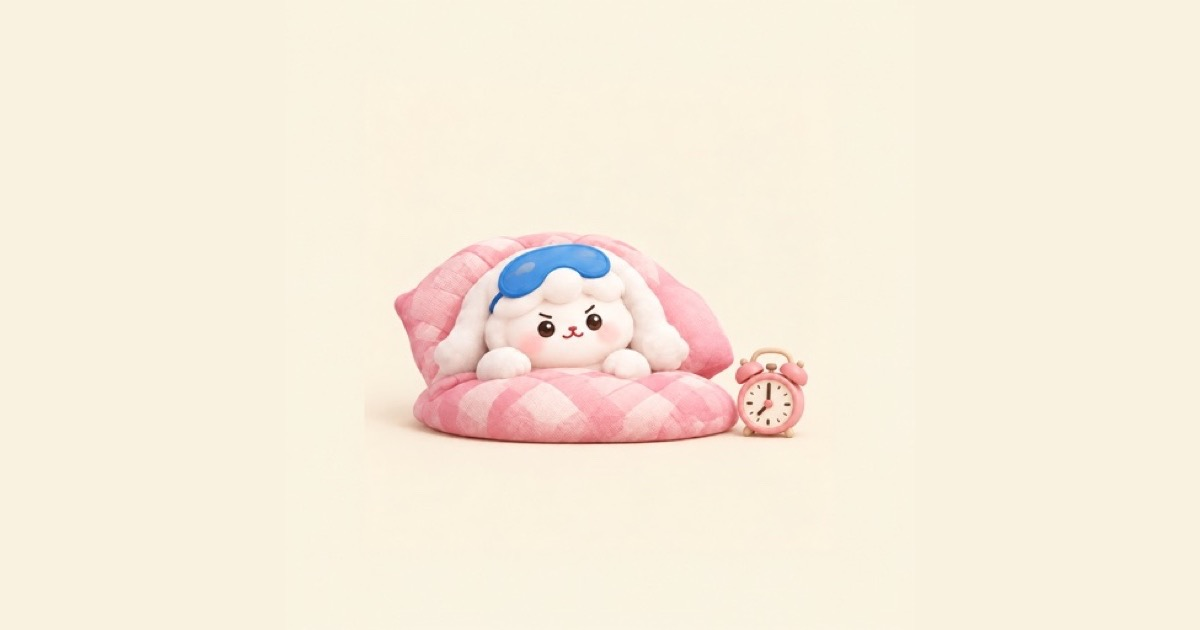
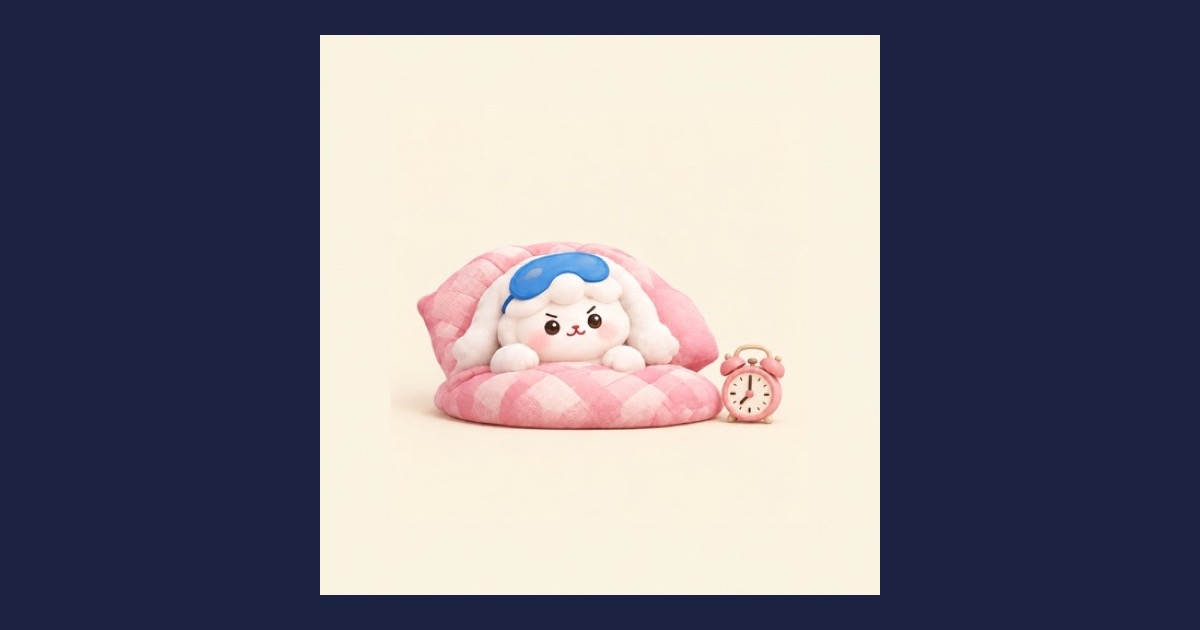
feat(chuseok): 응모 식별을 이메일 → 휴대폰 번호로 변경, Slack 배너 네이비 배경
- normalizePhone/formatPhone/maskPhone, enter API employeePhone, 폼 자동 하이픈
- 관리자 목록·CSV·추첨 결과에 연락처 표시
- supabase/chuseok_phone_migration.sql (기존 DB 전환), 신규 스키마도 번호 기준
- OG 배너 1200x630 네이비 배경 + 캐릭터 타일

diff --git a/src/components/chuseok/EntryForm.tsx b/src/components/chuseok/EntryForm.tsx
@@ -21,6 +21,14 @@ interface EnterResponse {
 
 type Status = 'idle' | 'busy' | 'done' | 'duplicate';
 
+/** 입력 중 자동 하이픈: 숫자만 남기고 010-1234-5678 형태로 */
+function formatPhoneInput(raw: string): string {
+  const d = raw.replace(/\D/g, '').slice(0, 11);
+  if (d.length <= 3) return d;
+  if (d.length <= 7) return `${d.slice(0, 3)}-${d.slice(3)}`;
+  return `${d.slice(0, 3)}-${d.slice(3, 7)}-${d.slice(7)}`;
+}
+
 function StateCard({
   tone,
   icon,
@@ -62,7 +70,7 @@ export default function EntryForm({
   drawClosesAtLabel,
 }: Props) {
   const [name, setName] = useState('');
-  const [email, setEmail] = useState('');
+  const [phone, setPhone] = useState('');
   const [agree, setAgree] = useState(false);
   const [status, setStatus] = useState<Status>(alreadyEntered ? 'done' : 'idle');
   const [error, setError] = useState('');
@@ -113,9 +121,9 @@ export default function EntryForm({
     e.preventDefault();
     setError('');
     const n = name.trim();
-    const m = email.trim();
+    const digits = phone.replace(/\D/g, '');
     if (!n) return setError('이름을 입력해 주세요.');
-    if (!/^[^\s@]+@[^\s@]+\.[^\s@]{2,}$/.test(m)) return setError('이메일 형식을 확인해 주세요.');
+    if (!/^01[016789]\d{7,8}$/.test(digits)) return setError('휴대폰 번호를 확인해 주세요. (예: 010-1234-5678)');
     if (!agree) return setError('안내 사항에 동의해 주세요.');
 
     setStatus('busy');
@@ -123,7 +131,7 @@ export default function EntryForm({
       const res = await fetch('/api/chuseok/enter', {
         method: 'POST',
         headers: { 'content-type': 'application/json' },
-        body: JSON.stringify({ sessionId, employeeName: n, employeeEmail: m }),
+        body: JSON.stringify({ sessionId, employeeName: n, employeePhone: digits }),
       });
       const data = (await res.json().catch(() => ({}))) as EnterResponse;
       if (res.ok && data.success) {
@@ -147,7 +155,7 @@ export default function EntryForm({
         <p className="ch-draw-cap">Lucky Draw</p>
         <h2 className="ch-draw-title">복주머니에 이름 넣기</h2>
         <p className="ch-draw-text">
-          이름과 이메일만 남기면 응모 완료. 한 사람당 한 번이에요.
+          이름과 휴대폰 번호만 남기면 응모 완료. 한 사람당 한 번이에요.
           {drawClosesAtLabel ? ` ${drawClosesAtLabel} 마감.` : ''}
         </p>
       </div>
@@ -169,24 +177,24 @@ export default function EntryForm({
         </label>
 
         <label className="ch-field">
-          <span className="ch-field-label">이메일</span>
+          <span className="ch-field-label">휴대폰 번호</span>
           <input
             className="ch-input"
-            type="email"
-            name="email"
-            autoComplete="email"
-            inputMode="email"
-            maxLength={120}
-            value={email}
-            onChange={(e) => setEmail(e.target.value)}
-            placeholder="hong@example.com"
+            type="tel"
+            name="phone"
+            autoComplete="tel-national"
+            inputMode="numeric"
+            maxLength={13}
+            value={phone}
+            onChange={(e) => setPhone(formatPhoneInput(e.target.value))}
+            placeholder="010-1234-5678"
             required
           />
         </label>
 
         <label className="ch-check">
           <input type="checkbox" checked={agree} onChange={(e) => setAgree(e.target.checked)} />
-          <span>참여 확인과 추첨·당첨자 발표에만 쓰고, 이벤트가 끝나면 지워요.</span>
+          <span>이름과 번호는 참여 확인, 추첨, 당첨자 연락에만 쓰고 이벤트가 끝나면 지워요.</span>
         </label>
 
         <p className="ch-error" role="alert" aria-live="polite">{error}</p>

diff --git a/src/pages/api/chuseok/enter.ts b/src/pages/api/chuseok/enter.ts
@@ -1,18 +1,18 @@
 import type { APIRoute } from 'astro';
 import { readEnv } from '@/lib/env';
 import { createServerClient } from '@/lib/supabase';
-import { isUuid, normalizeEmail, normalizeName } from '@/lib/chuseok/validation';
+import { isUuid, normalizeName, normalizePhone } from '@/lib/chuseok/validation';
 import { getEventStatus } from '@/lib/chuseok/event';
 
 export const prerender = false;
 
 /**
  * POST /api/chuseok/enter
- * body: { sessionId: uuid, employeeName: string, employeeEmail: string }
- * 테스트 완료 세션만 응모 가능. 이메일·세션 각각 unique → 서버에서 중복을 최종 차단한다.
+ * body: { sessionId: uuid, employeeName: string, employeePhone: string }
+ * 테스트 완료 세션만 응모 가능. 휴대폰 번호·세션 각각 unique → 서버에서 중복을 최종 차단한다.
  */
 export const POST: APIRoute = async (ctx) => {
-  let body: { sessionId?: unknown; employeeName?: unknown; employeeEmail?: unknown } = {};
+  let body: { sessionId?: unknown; employeeName?: unknown; employeePhone?: unknown } = {};
   try {
     body = (await ctx.request.json()) as typeof body;
   } catch {
@@ -23,9 +23,9 @@ export const POST: APIRoute = async (ctx) => {
     return Response.json({ code: 'INVALID_SESSION', error: '세션 정보가 올바르지 않습니다.' }, { status: 400 });
   }
   const name = normalizeName(body.employeeName);
-  const email = normalizeEmail(body.employeeEmail);
+  const phone = normalizePhone(body.employeePhone);
   if (!name) return Response.json({ code: 'INVALID_NAME', error: '이름을 확인해 주세요.' }, { status: 400 });
-  if (!email) return Response.json({ code: 'INVALID_EMAIL', error: '이메일 형식을 확인해 주세요.' }, { status: 400 });
+  if (!phone) return Response.json({ code: 'INVALID_PHONE', error: '휴대폰 번호를 확인해 주세요. (예: 010-1234-5678)' }, { status: 400 });
 
   let env: Env;
   try {
@@ -67,7 +67,7 @@ export const POST: APIRoute = async (ctx) => {
     const { error } = await sb.from('chuseok_entries').insert({
       session_id: session.id,
       employee_name: name,
-      employee_email: email,
+      employee_phone: phone,
       character_id: session.character_id,
     });
 

diff --git a/src/pages/api/admin/chuseok/entries.ts b/src/pages/api/admin/chuseok/entries.ts
@@ -2,6 +2,7 @@ import type { APIRoute } from 'astro';
 import { readEnv } from '@/lib/env';
 import { createServerClient } from '@/lib/supabase';
 import { getCharacter } from '@/lib/chuseok/content';
+import { formatPhone } from '@/lib/chuseok/validation';
 
 export const prerender = false;
 
@@ -9,7 +10,8 @@ export type EntryRow = {
   id: number;
   session_id: string;
   employee_name: string;
-  employee_email: string;
+  employee_phone: string | null;
+  employee_email: string | null;
   character_id: string;
   entered_at: string;
   is_winner: boolean;
@@ -47,15 +49,16 @@ export const GET: APIRoute = async (ctx) => {
 
     const entries = ((data ?? []) as EntryRow[]).map((e) => ({
       ...e,
+      phone_display: e.employee_phone ? formatPhone(e.employee_phone) : (e.employee_email ?? ''),
       character_name: getCharacter(e.character_id)?.name ?? e.character_id,
     }));
 
     const url = new URL(ctx.request.url);
     if (url.searchParams.get('format') === 'csv') {
-      const header = ['id', '이름', '이메일', '캐릭터', '캐릭터ID', '응모시각(KST)', '당첨', '상품', '추첨시각(KST)', '제외', '메모'];
+      const header = ['id', '이름', '연락처', '캐릭터', '캐릭터ID', '응모시각(KST)', '당첨', '상품', '추첨시각(KST)', '제외', '메모'];
       const lines = entries.map((e) =>
         [
-          e.id, e.employee_name, e.employee_email, e.character_name, e.character_id,
+          e.id, e.employee_name, e.phone_display, e.character_name, e.character_id,
           fmtKST(e.entered_at), e.is_winner ? 'Y' : '', e.prize ?? '', fmtKST(e.drawn_at),
           e.is_excluded ? 'Y' : '', e.note ?? '',
         ].map(csvCell).join(',')

diff --git a/src/pages/api/admin/chuseok/draw.ts b/src/pages/api/admin/chuseok/draw.ts
@@ -3,10 +3,11 @@ import { readEnv } from '@/lib/env';
 import { createServerClient } from '@/lib/supabase';
 import { assignPrizes, parsePrizeTiers } from '@/lib/chuseok/draw';
 import { getCharacter } from '@/lib/chuseok/content';
+import { formatPhone } from '@/lib/chuseok/validation';
 
 export const prerender = false;
 
-type PoolRow = { id: number; employee_name: string; employee_email: string; character_id: string };
+type PoolRow = { id: number; employee_name: string; employee_phone: string | null; employee_email: string | null; character_id: string };
 
 /**
  * POST /api/admin/chuseok/draw
@@ -31,7 +32,7 @@ export const POST: APIRoute = async (ctx) => {
 
     const { data: pool, error } = await sb
       .from('chuseok_entries')
-      .select('id, employee_name, employee_email, character_id')
+      .select('id, employee_name, employee_phone, employee_email, character_id')
       .eq('is_excluded', false)
       .eq('is_winner', false)
       .order('id', { ascending: true })
@@ -64,7 +65,7 @@ export const POST: APIRoute = async (ctx) => {
       winners: assignments.map((a) => ({
         id: a.winner.id,
         employee_name: a.winner.employee_name,
-        employee_email: a.winner.employee_email,
+        contact: a.winner.employee_phone ? formatPhone(a.winner.employee_phone) : (a.winner.employee_email ?? ''),
         character_id: a.winner.character_id,
         character_name: getCharacter(a.winner.character_id)?.name ?? a.winner.character_id,
         prize: a.prize,

diff --git a/src/lib/chuseok/validation.ts b/src/lib/chuseok/validation.ts
@@ -18,6 +18,28 @@ export function normalizeEmail(value: unknown): string | null {
   return email;
 }
 
+// 휴대폰 번호: 숫자만 남겨 010XXXXXXXX (10~11자리) 만 허용. 하이픈·공백·+82 표기는 정규화한다.
+export function normalizePhone(value: unknown): string | null {
+  if (typeof value !== 'string') return null;
+  let digits = value.replace(CONTROL_RE, '').replace(/\D/g, '');
+  if (digits.startsWith('82')) digits = '0' + digits.slice(2);
+  if (!/^01[016789]\d{7,8}$/.test(digits)) return null;
+  return digits;
+}
+
+/** 표시용 하이픈 포맷: 01012345678 → 010-1234-5678 */
+export function formatPhone(digits: string): string {
+  if (digits.length === 11) return `${digits.slice(0, 3)}-${digits.slice(3, 7)}-${digits.slice(7)}`;
+  if (digits.length === 10) return `${digits.slice(0, 3)}-${digits.slice(3, 6)}-${digits.slice(6)}`;
+  return digits;
+}
+
+/** 관리자 외 노출용 마스킹: 010-1234-5678 → 010-****-5678 */
+export function maskPhone(digits: string): string {
+  const f = formatPhone(digits);
+  return f.replace(/-(\d{3,4})-/, (m, mid) => `-${'*'.repeat(mid.length)}-`);
+}
+
 export function normalizeName(value: unknown): string | null {
   if (typeof value !== 'string') return null;
   const name = value.replace(CONTROL_RE, '').replace(/\s+/g, ' ').trim();

diff --git a/README.md b/README.md
@@ -24,7 +24,7 @@ src/
 │   │   └── quotes.astro · drinks.astro
 │   └── api/
 │       ├── chuseok/complete.ts     ← POST 답변 제출 → 캐릭터 계산·세션 저장
-│       ├── chuseok/enter.ts        ← POST 럭키드로우 응모 (이메일·세션 unique)
+│       ├── chuseok/enter.ts        ← POST 럭키드로우 응모 (휴대폰 번호·세션 unique)
 │       ├── admin/chuseok/{stats,entries,entries/[id],draw}.ts
 │       ├── fortune.ts · like.ts
 │       └── admin/{login,logout,stats,quotes*,drinks*}.ts
@@ -77,8 +77,8 @@ npm run simulate:chuseok
 ### 정책
 
 - 테스트는 여러 번 가능. 결과 URL 은 `/chuseok/result/<sessionId>`.
-- 럭키드로우는 **이메일 1인 1응모 + 세션 1응모** (DB unique). 응모 데이터에는 최초 응모 시점의 캐릭터가 남는다.
-- 이메일은 형식만 검증하고 도메인 제한은 없다 (사외 메일을 쓰는 직원 참여 허용).
+- 럭키드로우는 **휴대폰 번호 1인 1응모 + 세션 1응모** (DB unique). 번호는 숫자만 저장(01012345678). 응모 데이터에는 최초 응모 시점의 캐릭터가 남는다.
+- 기존 DB 는 `supabase/chuseok_phone_migration.sql` 로 이메일 → 번호 전환.
 - 추첨은 `/admin/chuseok` 에서 상품 등급별로 실행. `crypto.getRandomValues` 비복원 추출. 이미 당첨된 사람·수동 제외자는 풀에서 빠진다.
 
 ## 로컬 개발
@@ -176,7 +176,7 @@ Cloudflare Pages → Connect to Git → Build command `pnpm build`, Output `dist
 | `quote_stats` | view (총/7일 노출·좋아요) |
 | `drink_usage` | view (총/7일 매칭) |
 | `chuseok_sessions` | 한가위 테스트 완료 세션 (답변·점수·캐릭터) |
-| `chuseok_entries` | 럭키드로우 응모 (이메일·세션 unique, 당첨·제외 상태) |
+| `chuseok_entries` | 럭키드로우 응모 (휴대폰 번호·세션 unique, 당첨·제외 상태) |
 
 조회/좋아요 카운터는 별도 테이블 없이 위 두 view에서 집계합니다. 새 분석 차원이 필요해지면 view를 늘리는 방향으로 확장.
 
